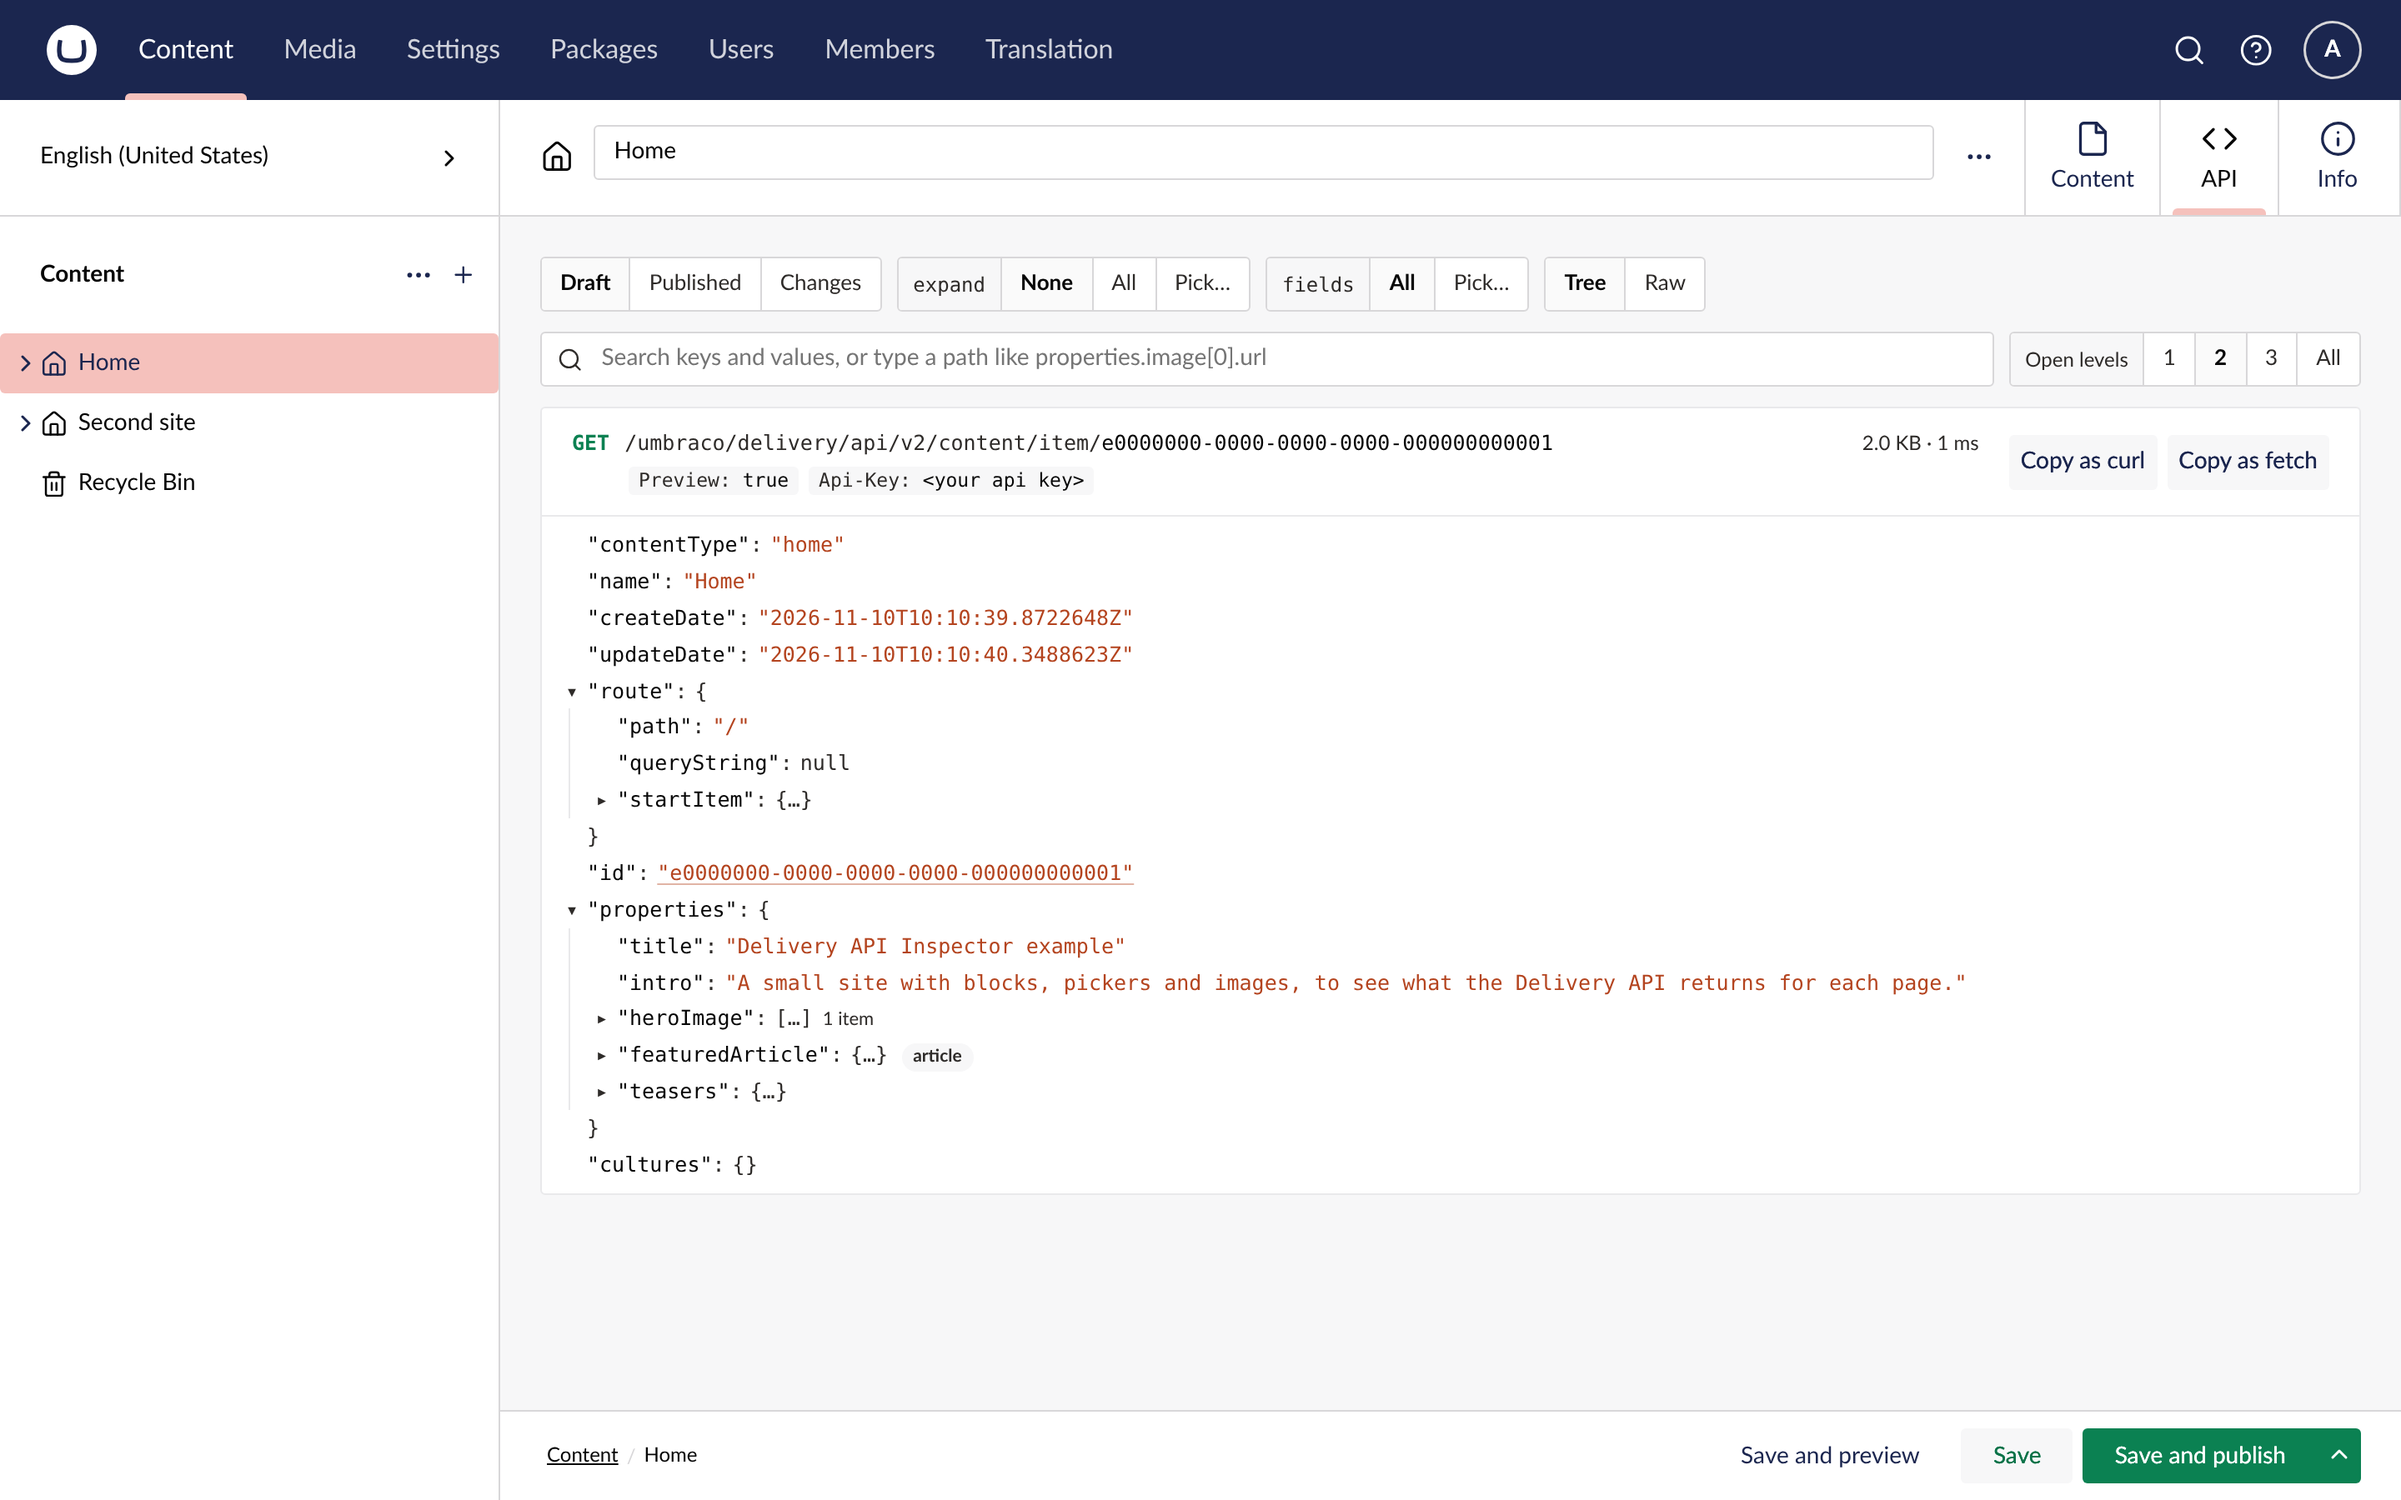
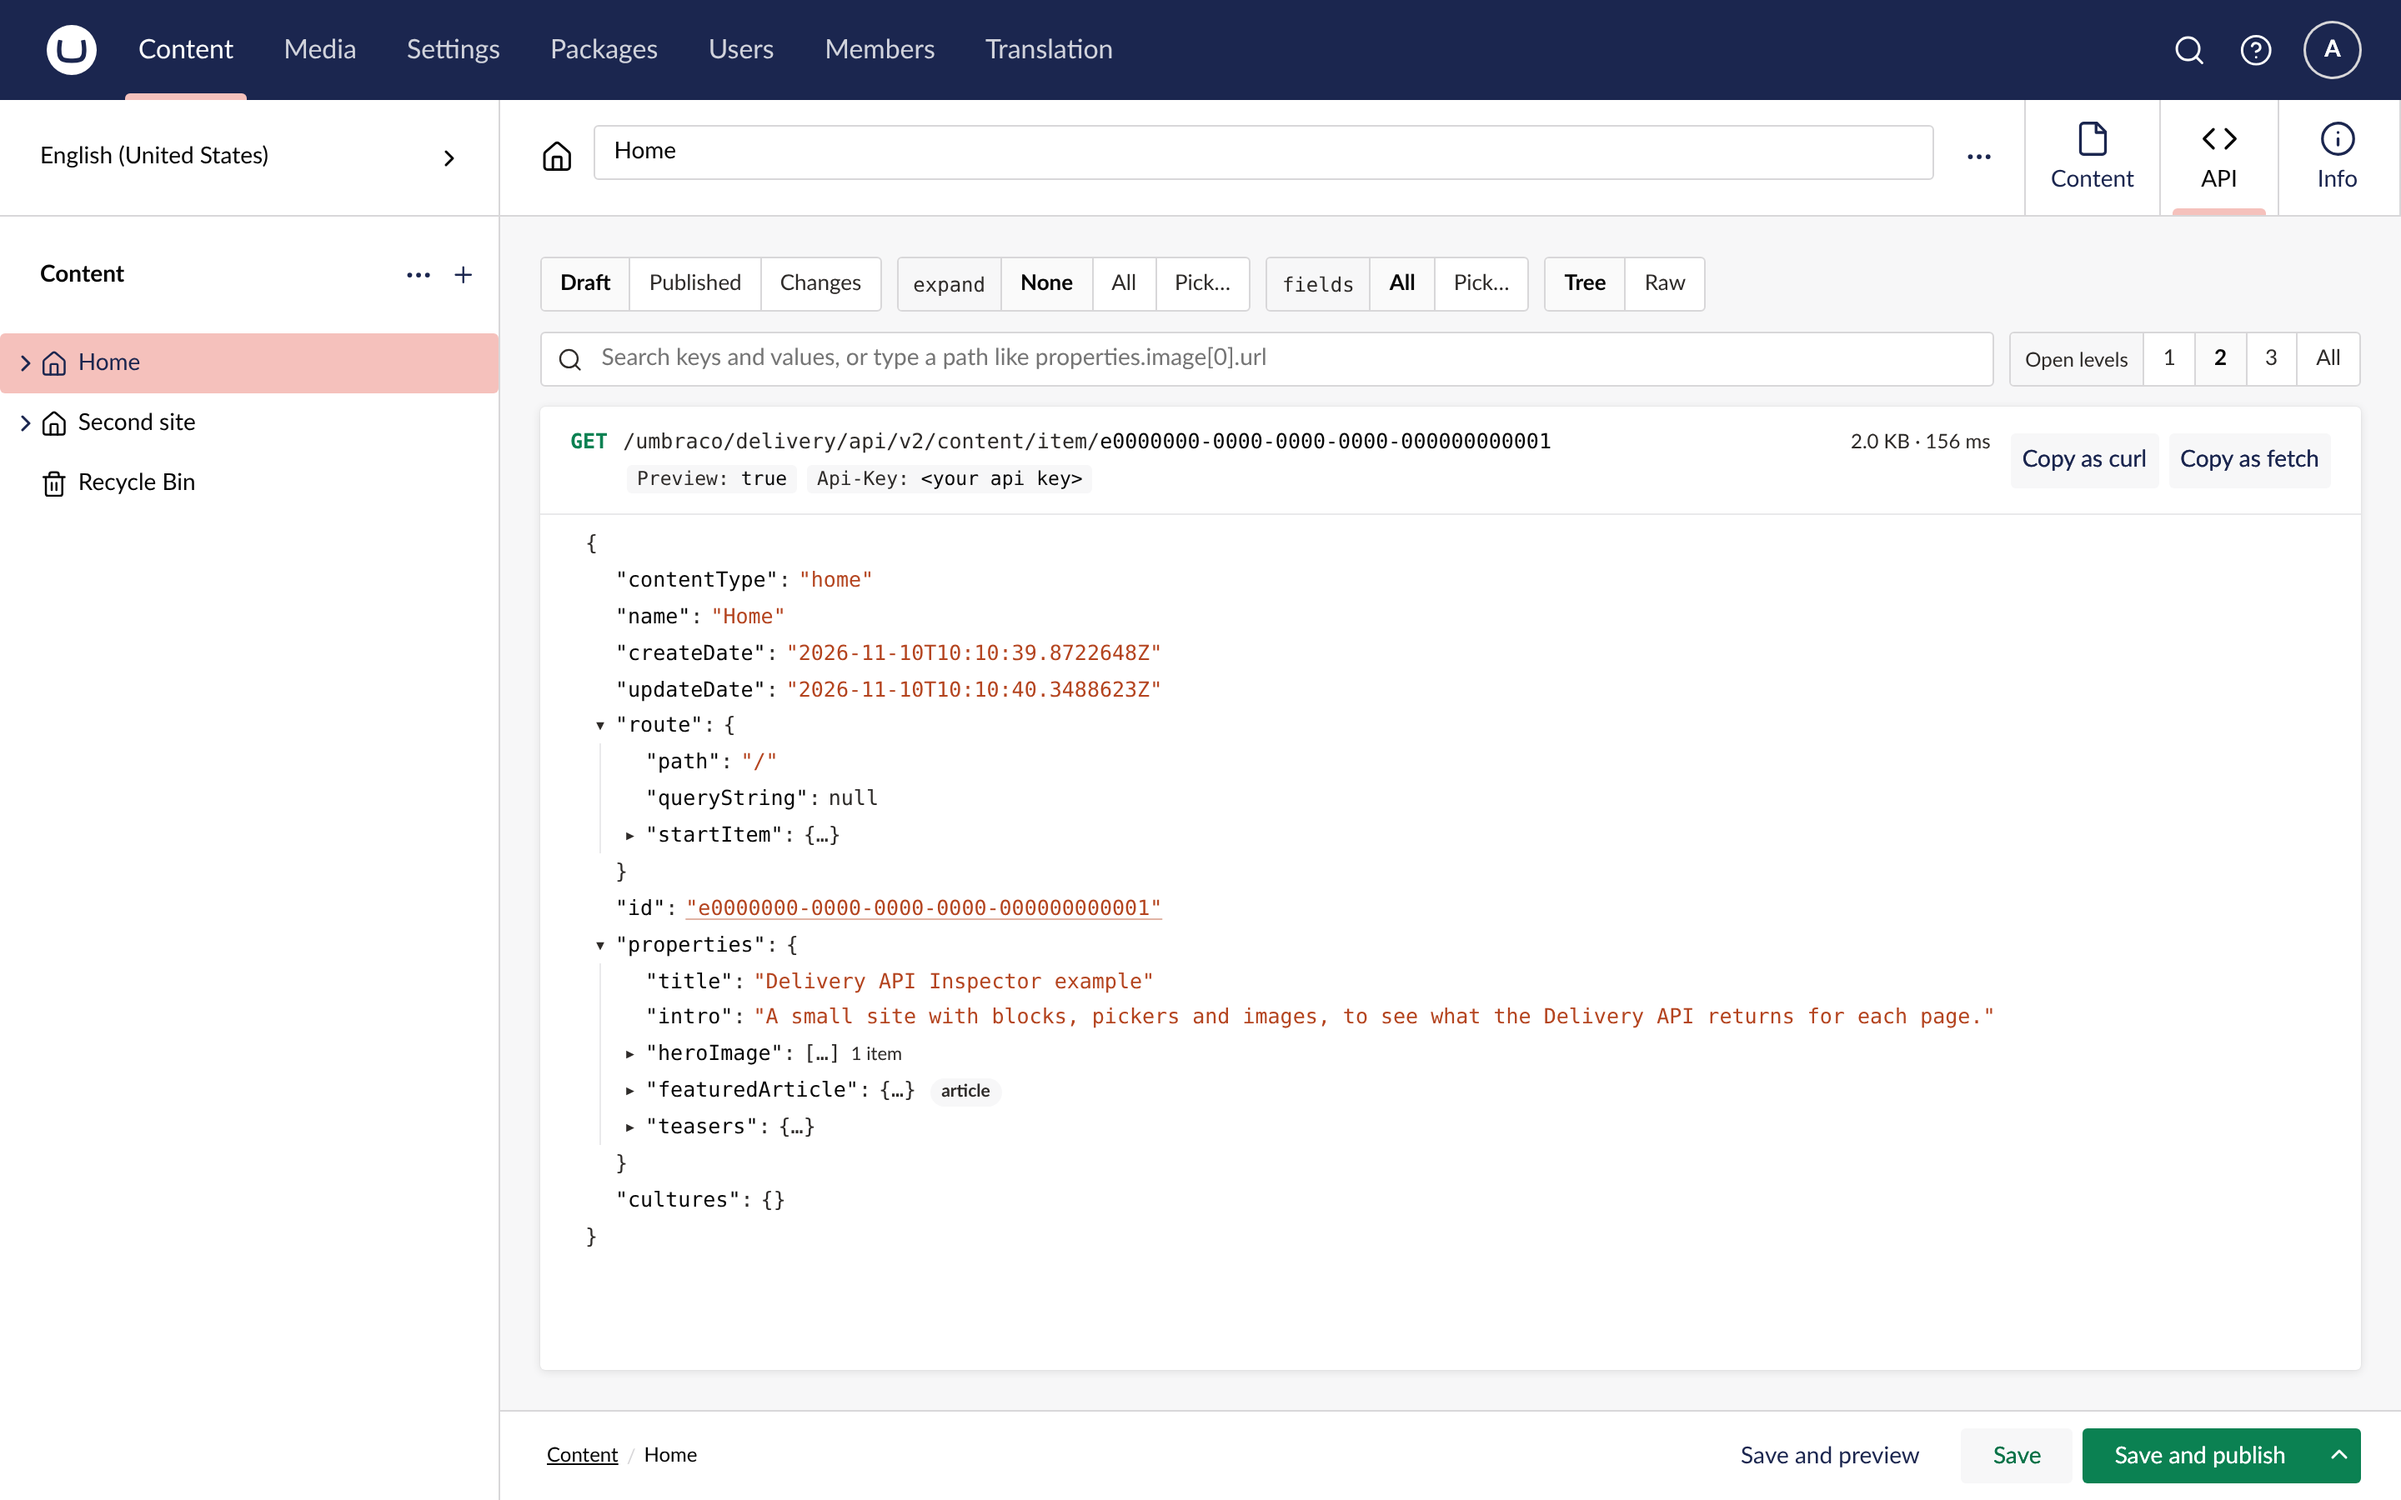
Polish the tree: root braces, aligned guides, a scrolling panel
- Show the response's own { } around the top-level keys.
- Centre the indent guides under the collapse arrows (they sat 1.5px left).
- Mark the current search hit with a row tint and a full-colour match
  instead of a rounded blue left border, and drop the rows' radius.
- Let the response scroll inside its panel, so the controls and the
  request stay in view. Raw fills the same panel.
- Retake the docs screenshots.

diff --git a/src/TheBuilder.DeliveryApiInspector/Client/src/json-tree.element.ts b/src/TheBuilder.DeliveryApiInspector/Client/src/json-tree.element.ts
@@ -256,10 +256,14 @@ export class JsonTreeElement extends LitElement {
       rows.push(html`<div class="row close" aria-hidden="true" style="--level:${level}"><span class="gutter"></span><span class="punct">${end}</span></div>`);
     };
 
+    // The response itself, so the top-level keys sit inside its braces as they do in the JSON.
+    const [rootStart, rootEnd] = brackets(this.data);
+    rows.push(html`<div class="row root" aria-hidden="true" style="--level:0"><span class="gutter"></span><span class="punct">${rootStart}</span></div>`);
     for (const [key, child] of children(this.data)) walk(key, child, [key], 1, this.data, undefined);
     for (const [removedKey, removed] of this.#removedByParent.get(pathKey([])) ?? []) {
       rows.push(html`<div class="row removed" style="--level:1"><span class="gutter"></span><span class="key">${JSON.stringify(removedKey)}</span><span class="punct colon">:</span><span class="before">${preview(removed.before)}</span><span class="meta">Only in published</span></div>`);
     }
+    rows.push(html`<div class="row root" aria-hidden="true" style="--level:0"><span class="gutter"></span><span class="punct">${rootEnd}</span></div>`);
     if (searching && !this.#hits.length) {
       return html`<p class="empty">Nothing matches “${this.query.trim()}”.</p>`;
     }
@@ -307,6 +311,8 @@ export class JsonTreeElement extends LitElement {
       --json-removed: color-mix(in srgb, var(--uui-color-danger, #d42054) 12%, transparent);
       --json-changed: color-mix(in srgb, var(--uui-color-warning, #fbd142) 22%, transparent);
       --json-mark: color-mix(in srgb, var(--uui-color-warning, #fbd142) 60%, transparent);
+      --json-mark-current: var(--uui-color-warning, #fbd142);
+      --json-current: color-mix(in srgb, var(--uui-color-selected, #3544b1) 9%, transparent);
       font: 12.5px/1.75 var(--uui-font-monospace, ui-monospace, SFMono-Regular, Menlo, Consolas, monospace);
       color: var(--uui-color-text);
     }
@@ -315,22 +321,28 @@ export class JsonTreeElement extends LitElement {
       --json-number: #7cb8ff;
       --json-boolean: #c79bff;
     }
+    /* The tab's panel scrolls the tree both ways; rows stretch to the widest one so hover and
+       highlights span the whole line. */
     .tree {
       padding: var(--uui-size-space-2, 6px) 0;
-      overflow-x: auto;
+      width: max-content;
+      min-width: 100%;
+      box-sizing: border-box;
     }
     .row {
       position: relative;
       display: flex;
       align-items: baseline;
       white-space: nowrap;
-      padding-left: calc((var(--level) - 1) * 18px);
+      /* Every level sits one step inside the response's own braces. */
+      padding-left: calc(var(--level) * 18px);
       padding-right: var(--uui-size-space-4, 12px);
-      background-image: repeating-linear-gradient(to right, var(--json-guide) 0 1px, transparent 1px 18px);
+      /* One guide per open parent, centred under that parent's 18px chevron column. The root's
+         braces have no chevron, so the guides start one column in. */
+      background-image: repeating-linear-gradient(to right, transparent 0 8.5px, var(--json-guide) 8.5px 9.5px, transparent 9.5px 18px);
       background-size: calc((var(--level) - 1) * 18px) 100%;
-      background-position: 7px 0;
+      background-position: 18px 0;
       background-repeat: no-repeat;
-      border-radius: 3px;
       outline: none;
     }
     .row:hover,
@@ -411,7 +423,9 @@ export class JsonTreeElement extends LitElement {
     .before { margin-right: 8px; text-decoration: line-through; color: var(--uui-color-danger); }
     .removed .before { text-decoration: none; }
     mark { background: var(--json-mark); color: inherit; border-radius: 2px; }
-    .current { box-shadow: inset 3px 0 0 var(--uui-color-selected, #3544b1); }
+    /* The search hit Enter moved to: the whole row tinted, and its match in full colour. */
+    .current { background-color: var(--json-current); }
+    .current mark { background: var(--json-mark-current); }
     .thumb {
       position: fixed;
       inset: auto;

diff --git a/src/TheBuilder.DeliveryApiInspector/Client/src/inspector-view.element.ts b/src/TheBuilder.DeliveryApiInspector/Client/src/inspector-view.element.ts
@@ -321,9 +321,10 @@ export class InspectorViewElement extends UmbElementMixin(LitElement) {
             ${this.#segmented("Open levels", this._depth, [[1, "1", "Show the tree one level deep"], [2, "2", "Two levels deep"], [3, "3", "Three levels deep"], [99, "All", "Open every level"]], (value) => { this._depth = value; this.shadowRoot?.querySelector("thebuilder-json-tree")?.reset(); })}
           </div>`
         : nothing}
-      <uui-box>
+      <section class="panel" aria-label="Response">
+        <div class="panel-header">
         ${request
-          ? html`<div class="request" slot="header">
+          ? html`<div class="request">
               <div class="line">
                 <span class="method">GET</span>
                 <span id="url" class="url" title=${fullUrl(request)}>${this._url
@@ -334,15 +335,16 @@ export class InspectorViewElement extends UmbElementMixin(LitElement) {
               ${request.headers.length ? html`<div class="headers">${request.headers.map(([name, value]) => html`<span><span class="muted">${name}:</span> ${value}</span>`)}</div>` : nothing}
             </div>`
           : nothing}
-        <div slot="header-actions" class="copy">
+        <div class="copy">
           ${request
             ? html`<uui-button compact look="secondary" label="Copy as curl" @click=${() => this.#copy(toCurl(backofficeOrigin(), request), "Copied the curl command.")}></uui-button>
                 <uui-button compact look="secondary" label="Copy as fetch" @click=${() => this.#copy(toFetch(backofficeOrigin(), request), "Copied the fetch call.")}></uui-button>`
             : nothing}
         </div>
+        </div>
         ${offNote ? html`<p class="note">${offNote}</p>` : nothing}
-        ${this.#body()}
-      </uui-box>
+        <div class="body">${this.#body()}</div>
+      </section>
     `;
   }
 
@@ -372,11 +374,38 @@ export class InspectorViewElement extends UmbElementMixin(LitElement) {
   static styles = [
     UmbTextStyles,
     css`
+      /* The tab fills the workspace, and only the response scrolls, so the controls and the request
+         stay in view. Below 360px of response it falls back to scrolling the page. */
       :host {
         display: flex;
         flex-direction: column;
         gap: var(--uui-size-space-4);
+        height: 100%;
+        box-sizing: border-box;
         padding: var(--uui-size-layout-1);
+      }
+      .panel {
+        display: flex;
+        flex-direction: column;
+        flex: 1;
+        min-height: 360px;
+        min-width: 0;
+        border-radius: var(--uui-border-radius);
+        background: var(--uui-color-surface);
+        box-shadow: var(--uui-shadow-depth-1);
+      }
+      .panel-header {
+        display: flex;
+        align-items: center;
+        gap: var(--uui-size-space-4);
+        padding: var(--uui-size-space-4) var(--uui-size-space-5);
+        border-bottom: 1px solid var(--uui-color-divider-standalone);
+      }
+      .body {
+        position: relative;
+        flex: 1;
+        min-height: 0;
+        overflow: auto;
       }
       .toolbar {
         display: flex;
@@ -552,7 +581,6 @@ export class InspectorViewElement extends UmbElementMixin(LitElement) {
       }
       uui-box {
         --uui-box-default-padding: 0;
-        min-width: 0;
       }
       .note {
         margin: 0;
@@ -569,7 +597,8 @@ export class InspectorViewElement extends UmbElementMixin(LitElement) {
         transition: opacity 120ms;
       }
       .raw {
-        height: 70vh;
+        display: block;
+        height: 100%;
       }
       .state {
         display: flex;
